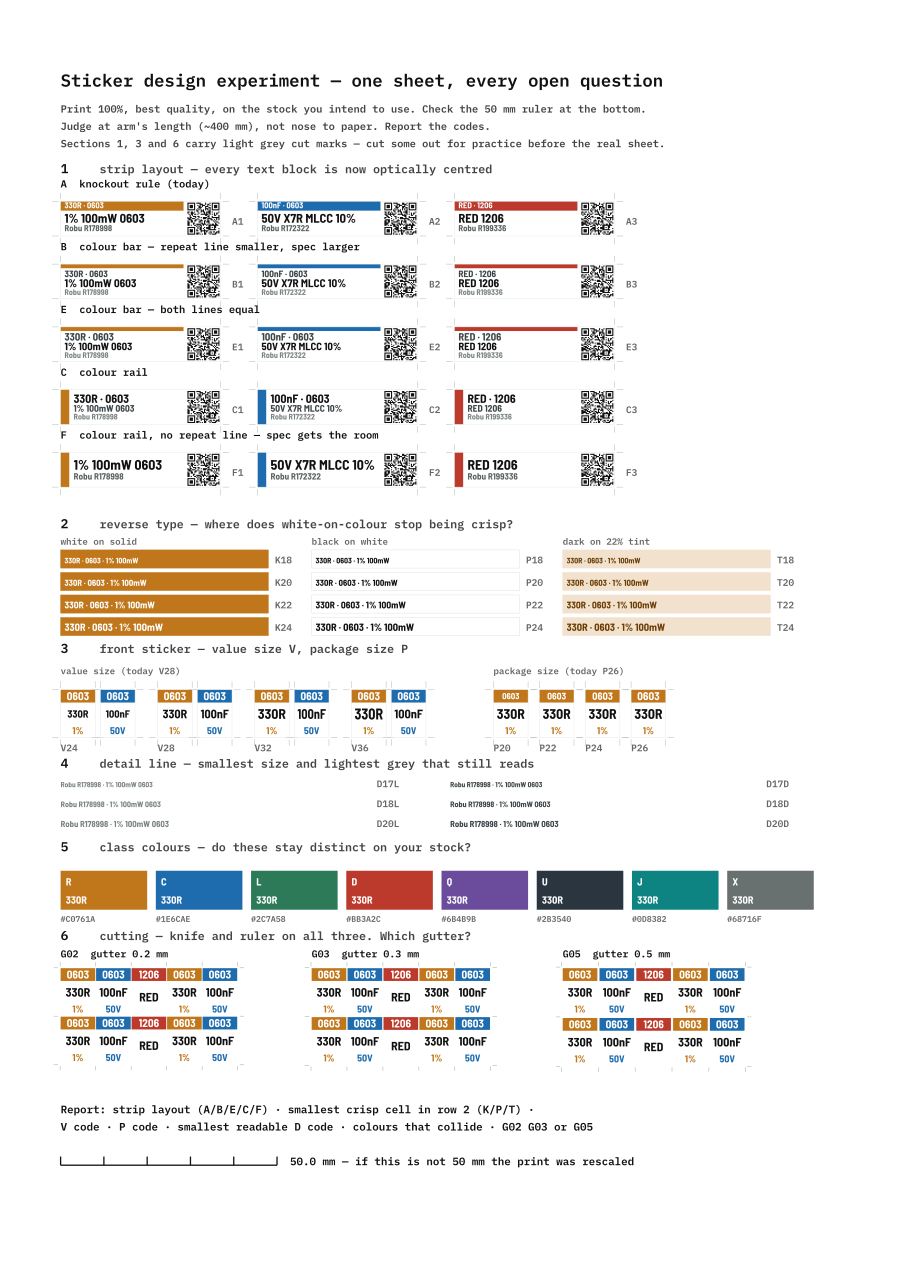
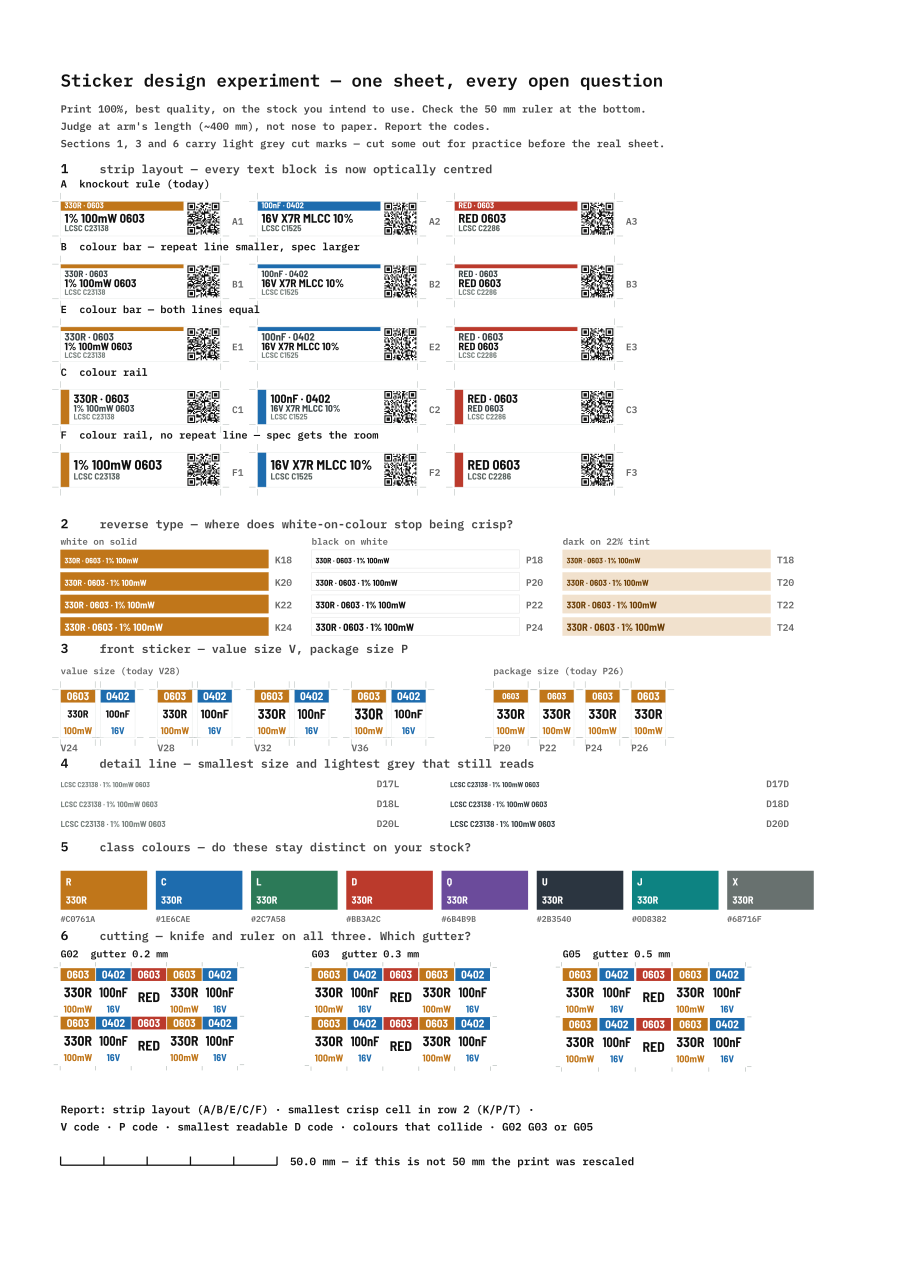
Blender renders, LCSC as default supplier, fitting and tuning tips
- Renders now come from Blender Cycles: perspective camera, soft area
  lights, shadows, plastic and paper materials, AgX Punchy tone mapping.
  Cover (8/12/16 mm with stickers), single-magazine close-up and an
  exploded view showing the lid pegs. JPEG, ~380 KB total.
- Stickers default to LCSC: supplier name, QR to lcsc.com/product-detail.
  New --supplier flag; Robu (or any supplier) still works via flags.
  example.csv and all sample images use real, verified LCSC parts.
- README/Printables: tune bridging and cooling before printing; press the
  lid on evenly with a flat plate.

diff --git a/stickers/labels.py b/stickers/labels.py
@@ -48,21 +48,21 @@ CLASS_COLOUR = {
     "Q": "#6B4B9B", "U": "#2B3540", "J": "#0D8382", "X": "#68716F",
 }
 PASSIVE = set("RCL")
-# Both query parameters are required — Robu's search only returns the product
-# with post_type=product. That is 44 bytes, which is a version 3 symbol (29
-# modules) and 0.255 mm per module in the 7.4 mm box an 8 mm strip allows.
+# Shortest LCSC URL that still lands on the product page: the bare domain
+# redirects to www, but the path is case-sensitive (an uppercase path lands on
+# the catalogue), so alphanumeric mode is out. 43 bytes is a version 3 symbol
+# (29 modules), 0.255 mm per module in the 7.4 mm box an 8 mm strip allows.
 #
-# Nothing shorter works: version 2 holds 32 bytes at ECC L, and the URL cannot
-# be trimmed below 35 even dropping the scheme. Uppercasing does not help either
-# because ?, = and & are outside QR alphanumeric mode.
+# If 0.255 mm does not scan reliably on your printer, the remaining lever is a
+# redirect host you own:
+#     --qr-template "HTTP://EXAMPLE.COM/{sku}"     version 1, ~0.35 mm
+# serving a 301 from /<SKU> to the supplier page. See README.
 #
-# So if 0.255 mm does not scan reliably on your printer, the only remaining
-# lever is a redirect host you own:
-#     --qr-template "HTTP://AMS.SH/{sku}"     21 chars, version 1, 0.352 mm
-# serving a 301 from /<SKU> to the full Robu URL. See README.
-QR_TEMPLATE = "https://robu.in/?s={sku}&post_type=product"
+# Any other supplier works through --supplier and --qr-template, e.g. Robu:
+#     --supplier Robu --qr-template "https://robu.in/?s={sku}&post_type=product"
+QR_TEMPLATE = "https://lcsc.com/product-detail/{sku}.html"
 QR_ECC = "L"            # L keeps the symbol one version smaller than M for long URLs
-SUPPLIER = "Robu"       # printed on the strip alongside the SKU
+SUPPLIER = "LCSC"       # printed on the strip alongside the SKU
 
 warnings: list[str] = []
 
@@ -130,10 +130,11 @@ def voltage_of(rating: str) -> str:
     return f"{m.group(1)}V" if m else ""
 
 
-def load_csv(path: pathlib.Path, feeder: float, qr_template: str) -> list[Part]:
-    """Read the Robu inventory export.
+def load_csv(path: pathlib.Path, feeder: float, qr_template: str,
+             supplier: str = SUPPLIER) -> list[Part]:
+    """Read a parts list.
 
-    Its header repeats `kind` twice, so columns are taken by position, not name:
+    Columns are taken by position, not name (some exports repeat a header):
     kind, value, tolerance, rating, subtype, footprint, sku, quantity
     """
     out: list[Part] = []
@@ -165,7 +166,7 @@ def load_csv(path: pathlib.Path, feeder: float, qr_template: str) -> list[Part]:
             p.headline = " ".join(x for x in (value, subtype, fp) if x)
         # Stock quantity is deliberately NOT printed — it goes stale the moment
         # you use a part, and a sticker outlives the count.
-        p.detail = f"{SUPPLIER} {sku.upper()}" if sku else ""
+        p.detail = f"{supplier} {sku.upper()}" if sku else ""
         p.qr = qr_template.format(sku=sku.upper()) if sku else ""
         if not sku:
             warn(i, "no SKU, sticker will have no QR")
@@ -479,13 +480,15 @@ def main() -> int:
     ap.add_argument("--gutter", type=float, default=GUTTER,
                     help="white between stickers in mm (default 0.5); cuts run down its middle")
     ap.add_argument("--qr-template", default=QR_TEMPLATE,
-                    help="QR payload; {sku} is substituted (default: the Robu search URL)")
+                    help="QR payload; {sku} is substituted (default: the LCSC product page)")
+    ap.add_argument("--supplier", default=SUPPLIER,
+                    help="supplier name printed before the SKU (default: LCSC)")
     ap.add_argument("--marks", action="store_true",
                     help="add a 50 mm ruler and footer; off by default so no ink is spent on words")
     ap.add_argument("--pdf", action="store_true", help="also write PDF via inkscape")
     a = ap.parse_args()
 
-    parts = load_csv(a.input, a.feeder, a.qr_template)
+    parts = load_csv(a.input, a.feeder, a.qr_template, a.supplier)
     if not parts:
         print("no parts found", file=sys.stderr)
         return 1

diff --git a/stickers/qr_scan_test_sheet.py b/stickers/qr_scan_test_sheet.py
@@ -1,7 +1,7 @@
 """Print-and-scan diagnostic for the strip QR.
 
-Every code opens a real Robu page, and each cell uses a different SKU from your
-inventory, so whatever your phone lands on names the cell that worked.
+Every code opens a real LCSC product page, and each cell uses a different part,
+so whatever your phone lands on names the cell that worked.
 
 Everything sits between y=20 and y=250 so nothing lands in a printer's
 unprintable trailing-edge margin.
@@ -19,8 +19,8 @@ SIZES = [6.6, 7.0, STRIP_BOX, 7.8, 8.4, 9.0]
 # URL on a domain nobody owns is a dead code that teaches you nothing.
 PROBE = "PROBE V1 {size} NOT A LINK"
 SKU = {
-    "a": ["R178998", "R249596", "R209451", "R135460", "R138664", "R137904"],
-    "b": ["R189311", "R135638", "R134466", "R135953", "R137581", "R189367"],
+    "a": ["C23138", "C25804", "C21190", "C25744", "C14663", "C1525"],
+    "b": ["C19702", "C2286", "C72043", "C72041", "C7519", "C23138"],
 }
 
 
@@ -63,7 +63,7 @@ def main():
         "Print at 100%, and this time try BEST / HIGH quality — it is usually worth one size step.",
         "Last run: 8.4 mm scanned, 7.8 mm did not, 7.2 mm scanned only with effort. That puts your",
         "floor near 0.29 mm per module. The 8 mm strip holds a 7.4 mm box, so the fix is fewer",
-        "modules — but Robu needs both query parameters, so the URL cannot shrink. Row 1 is that",
+        "modules — but the LCSC path is case-sensitive, so it cannot use dense alphanumeric mode. Row 1 is that",
         "URL at 0.255 mm. Row 2 is a DENSITY PROBE, not a link: it shows text when scanned, and",
         "tells you what a short redirect host would buy before you go and register one.",
     ]
@@ -72,7 +72,7 @@ def main():
     ruler_y = 31 + len(head) * 4.2 + 3.0          # always clear of the header
     ruler(o, ruler_y)
 
-    y = band(o, ruler_y + 13, "1 — the real link: https://robu.in/?s=SKU&post_type=product   (29 modules, v3)",
+    y = band(o, ruler_y + 13, "1 — the real link: https://lcsc.com/product-detail/SKU.html   (29 modules, v3)",
              QR_TEMPLATE, SKU["a"])
     y = band(o, y + 6, "2 — DENSITY PROBE, not a link — scanning shows text, not a page   (21 modules, v1)",
              PROBE, SKU["b"], probe=True)
@@ -80,9 +80,9 @@ def main():
     o.append(mono(f"3 — payload length, all at {STRIP_BOX:g} mm (exactly what the 8 mm strip gives)",
                   M, y + 3, 3.0))
     yy = y + 8
-    variants = [("https://robu.in/?s=R172325&post_type=product", "the working URL, 44 ch"),
-                ("https://robu.in/?s=R172313", "without post_type — wrong page"),
-                ("robu.in/?s=R148929", "no scheme, 18 ch"),
+    variants = [("https://lcsc.com/product-detail/C14663.html", "the default URL, 43 ch"),
+                ("https://www.lcsc.com/product-detail/C14663.html", "with www, 47 ch"),
+                ("HTTPS://LCSC.COM/PRODUCT-DETAIL/C14663.HTML", "uppercase — wrong page"),
                 ("PROBE V1 7.4MM NOT A LINK", "v1 density probe, not a link")]
     x = M
     for payload, lbl in variants:
@@ -108,7 +108,7 @@ def main():
         o.append(mono(f"{p.value}  ·  {p.sku}", M + 41, y + 5.5 + i * 11, 2.4, "#555"))
     y += len(parts) * 11 + 8
 
-    o.append(mono("Report back: smallest cell in row 1 that OPENS ROBU, and in row 2 that DECODES.", M, y + 4, 2.6, "#111"))
+    o.append(mono("Report back: smallest cell in row 1 that OPENS THE PART, and in row 2 that DECODES.", M, y + 4, 2.6, "#111"))
     o.append(mono("Row 2 reaching lower than row 1 means a short redirect host would buy you a size step.", M, y + 8, 2.5, "#444"))
     ruler(o, min(y + 20, PAGE_H - 30), "50.0 mm — second ruler, in case the first clipped")
     o.append("</svg>")

diff --git a/stickers/design_test_sheet.py b/stickers/design_test_sheet.py
@@ -173,7 +173,7 @@ def build():
             (1.7, "#3B4447", "D17D"), (1.85, "#3B4447", "D18D"), (2.0, "#3B4447", "D20D")]):
         xx = M + (i // 3) * 90
         yy = y + (i % 3) * 4.6
-        o.append(sans(f"{SUPPLIER} R178998 · 1% 100mW 0603", xx, yy, size, fill, 70))
+        o.append(sans(f"{SUPPLIER} C23138 · 1% 100mW 0603", xx, yy, size, fill, 70))
         o.append(mono(code, xx + 73, yy, 2.2, "#666"))
     y += 3 * 4.6 + 1
 

diff --git a/stickers/README.md b/stickers/README.md
@@ -23,13 +23,14 @@ paired one cell per part.
   outermost cut ticks: `labels.py` prints the distance they must be apart
   (or add `--marks` for a 50 mm ruler on the sheet).
 
-![Stickers on 8, 12 and 16 mm magazines](../images/sizes.png)
+![Stickers on 8, 12 and 16 mm magazines](../images/cover.jpg)
 
 ## Examples
 
-A real 8 mm sheet: resistors, capacitors and LEDs, colour-coded by class. Each
-part gets a front sticker (package band, value, rating) and a top strip
-(spec, supplier SKU and a QR that opens the supplier's product page).
+An 8 mm sheet made from [`example.csv`](example.csv): real LCSC parts
+(resistors, capacitors, LEDs, an ESD diode), colour-coded by class. Each part
+gets a front sticker (package band, value, rating) and a top strip (spec, LCSC
+part number and a QR that opens the part's LCSC page).
 
 ![8 mm sticker sheet](images/sheet-8mm-row.png)
 
@@ -63,7 +64,9 @@ nothing needs installing and the PDF renders identically anywhere.
 |---|---|
 | `--feeder 12` | cartridge width; 8 is the default |
 | `--gutter 0.5` | white between stickers; cuts run down its middle |
-| `--qr-template` | payload; `{sku}` is substituted. Default is the Robu search URL |
+| `--supplier` | name printed before the SKU; `LCSC` is the default |
+| `--qr-template` | QR payload; `{sku}` is substituted. Default is the LCSC product page, `https://lcsc.com/product-detail/{sku}.html` |
+| `--marks` | add a 50 mm ruler and footer to the sheet |
 | `--pdf` | also run `inkscape` to produce PDF |
 
 ## Experiment sheet
@@ -132,7 +135,7 @@ part's front sticker and its strip.
 
 ## Input
 
-Columns are read **by position**, because the Robu export repeats `kind`:
+Columns are read **by position** (some spreadsheet exports repeat a header name):
 
 ```
 kind, value, tolerance, rating, subtype, footprint, sku, quantity
@@ -142,13 +145,13 @@ kind, value, tolerance, rating, subtype, footprint, sku, quantity
 strip headline: passives lead with their spec, semiconductors lead with the part
 number. Values are normalised on the way in — `100n` → `100nF`, `330` → `330R`.
 
-## Printing
+`sku` is the supplier part number (e.g. LCSC `C23138`). It is printed on the
+strip and fills `{sku}` in the QR template. For another supplier:
 
-Print at 100%. Every sheet carries a 50 mm calibration bar — measure it before
-committing sticker paper, because "fit to page" is the usual way to waste one.
-
-Cut ticks sit in the margins, never on a sticker. Long ticks are cell edges,
-short ticks the split between a part's front sticker and its strip.
+```sh
+uv run labels.py parts.csv --supplier Robu \
+  --qr-template "https://robu.in/?s={sku}&post_type=product"
+```
 
 ## QR
 
@@ -165,13 +168,13 @@ Measured on an inkjet, normal quality, plain paper, iOS camera:
 | 0.248 mm (7.2 mm box, 29 mod) | scanned only with effort |
 
 Working floor is roughly **0.29 mm per module**. An 8 mm strip gives a 7.4 mm
-box, and the Robu URL is 44 bytes, which is a version 3 symbol: **0.255 mm**.
+box, and the LCSC URL is 43 bytes, which is a version 3 symbol: **0.255 mm**.
 That is below the floor at normal quality; best/high quality may clear it.
 
-**The URL cannot be shortened.** Robu's search only returns the product with
-`post_type=product`, and version 2 holds 32 bytes at ECC L. Dropping the scheme
-gets to 35, still too long. Uppercasing does not help because `?`, `=` and `&`
-are outside QR alphanumeric mode — that trick only works on path-style URLs.
+**The URL cannot get much shorter.** `lcsc.com` without `www` already redirects,
+and version 2 holds only 32 bytes at ECC L. Uppercasing the URL would switch it
+to the denser alphanumeric mode, but LCSC's path is case-sensitive: an
+uppercase path lands on the catalogue page, not the part.
 
 ### If 0.255 mm will not scan
 
@@ -180,8 +183,8 @@ in uppercase stays in alphanumeric mode and holds version 1:
 
 | payload | chars | version | mm/module @ 7.4 |
 |---|---|---|---|
-| `https://robu.in/?s=SKU&post_type=product` | 44 | 3 | 0.255 |
-| `HTTP://AMS.SH/R178998` | 21 | 1 | **0.352** |
+| `https://lcsc.com/product-detail/C23138.html` | 43 | 3 | 0.255 |
+| `HTTP://EXAMPLE.SH/C23138` | 24 | 1 | **0.352** |
 
 That is a 38% larger module in the same box — comfortably past your floor.
 
@@ -193,7 +196,7 @@ export default {
     const sku = new URL(request.url).pathname.slice(1).toUpperCase();
     if (!sku) return new Response("no sku", { status: 404 });
     return Response.redirect(
-      `https://robu.in/?s=${sku}&post_type=product`, 301);
+      `https://lcsc.com/product-detail/${sku}.html`, 301);
   },
 };
 ```
@@ -201,7 +204,7 @@ export default {
 Point a short domain at it, then generate with:
 
 ```sh
-python labels.py parts.csv --qr-template "HTTP://AMS.SH/{sku}"
+uv run labels.py parts.csv --qr-template "HTTP://EXAMPLE.SH/{sku}"
 ```
 
 Uppercase in the template is deliberate and required — one lowercase character
@@ -211,8 +214,12 @@ linkifies the uppercase form before committing a sheet.
 
 ## Printing
 
-Print at 100%, best/high quality. Every sheet carries a 50 mm calibration bar —
-measure it before committing sticker paper.
+Print at 100%, best/high quality, on glossy sticker paper. Check the scale
+before committing sticker paper: `labels.py` prints how far apart the outermost
+cut ticks must be, or add `--marks` for a 50 mm ruler.
+
+Cut ticks sit in the margins, never on a sticker. Long ticks are cell edges,
+short ticks the split between a part's front sticker and its strip.
 
 Content is kept 20 mm clear of the trailing edge (`MARGIN_Y`, `FOOTER_Y`),
 because that is the margin inkjets clip.

diff --git a/README.md b/README.md
@@ -4,11 +4,11 @@ A fully parametric FreeCAD model of an SMD component tape magazine for 8, 12
 and 16 mm tape, plus a sticker generator that prints matching labels for each
 magazine.
 
-![8, 12 and 16 mm magazines](images/sizes.png)
+![8, 12 and 16 mm magazines with stickers](images/cover.jpg)
 
-| lid off | lid latches |
+| 8 mm magazine | lid latches |
 |---|---|
-| ![Inside, lid removed](images/inside.png) | ![Lid pulled off to show the snap pegs](images/exploded.png) |
+| ![8 mm magazine close-up](images/closeup.jpg) | ![Lid pulled off to show the snap pegs](images/exploded.jpg) |
 
 ## What's in here
 
@@ -39,8 +39,18 @@ to absorb elephant's foot). No supports needed.
 | infill | 8–10% gyroid (a little infill makes the print itself more reliable) |
 | supports | none |
 
+**Tune your filament profile first**, especially **bridging and cooling**.
+The latch sockets and pegs are small, and sagging bridges or under-cooled
+overhangs are the usual cause of a lid that won't fit or won't stay on.
+
 Per magazine: one body, one slider of the same width, one lid, and a spring.
 For the rail, pick one from [`print/rails/`](print/rails/README.md).
+
+### Fitting the lid
+
+Press the lid on **evenly**, with something flat and stiff laid over it, e.g.
+a ~3 mm mild steel plate, so all eight pegs snap in together. Pressing one
+corner at a time bends the lid and can break a peg.
 
 ### Spring
 

diff --git a/docs/PRINTABLES.md b/docs/PRINTABLES.md
@@ -13,7 +13,7 @@ and https://www.printables.com/model/1182844 (SMD Magazine Modified Easy Print b
 
 **Files to upload:** everything in `print/` (including `print/rails/`), plus `cad/*.FCStd` (all three together)
 
-**Images:** `images/sizes.png` (cover), `images/inside.png`, `images/exploded.png`,
+**Images:** `images/cover.jpg` (cover), `images/closeup.jpg`, `images/exploded.jpg`,
 `stickers/images/sheet-8mm-closeup.png`, plus photos of real prints
 
 ---
@@ -47,6 +47,14 @@ brittle for them.
 shells, 8–10% gyroid infill (a little infill makes the print more reliable),
 no supports. The STLs are pre-oriented with the
 chamfered face down.
+
+**Tune your filament profile first**, especially bridging and cooling. Sagging
+bridges or under-cooled overhangs in the small latch sockets and pegs are the
+usual cause of fitment problems.
+
+**Fitting the lid:** press it on evenly with something flat and stiff over it
+(e.g. a ~3 mm mild steel plate) so all eight pegs snap in together, not one
+corner at a time.
 
 **Per magazine:** 1 body, 1 slider of the same width, 1 lid, 1 spring. The
 spring bore is 8 mm deep, for a longer spring than the original's 0.3 × 4 ×
